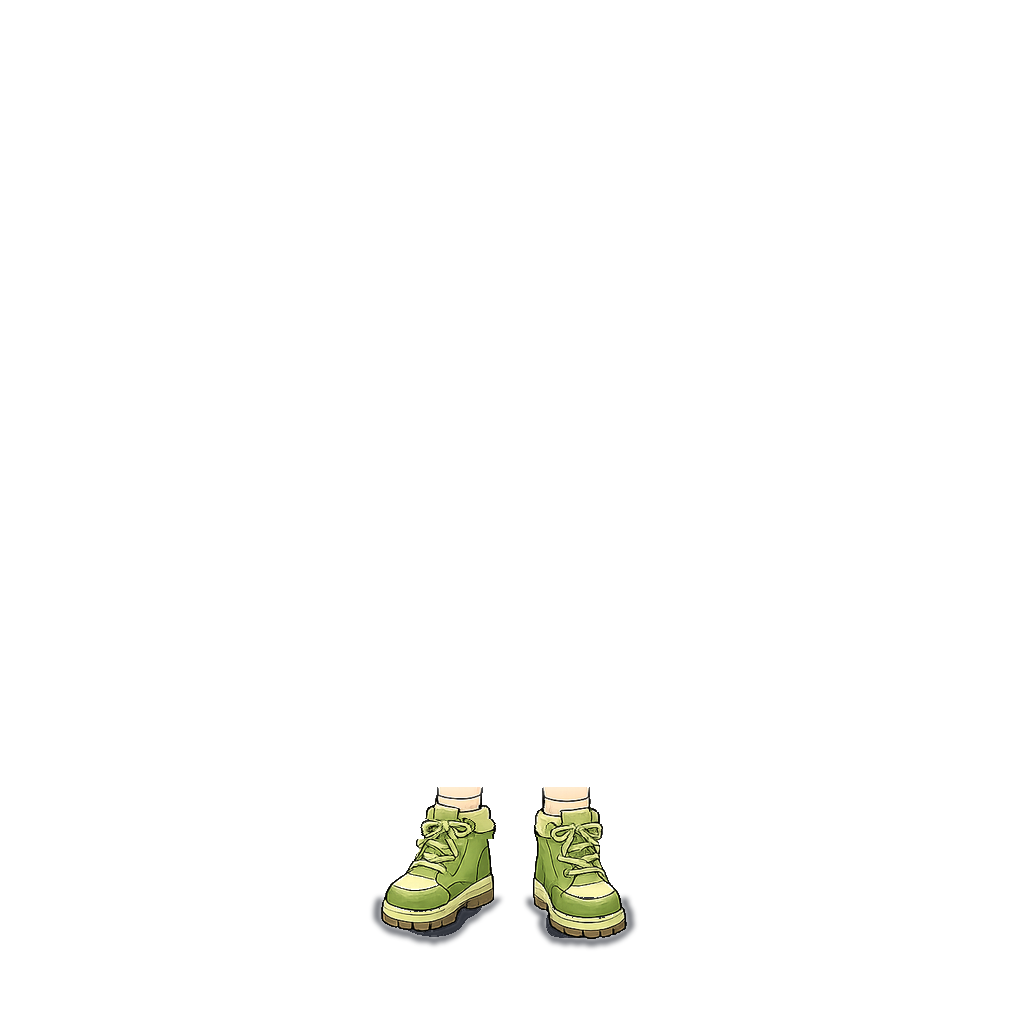
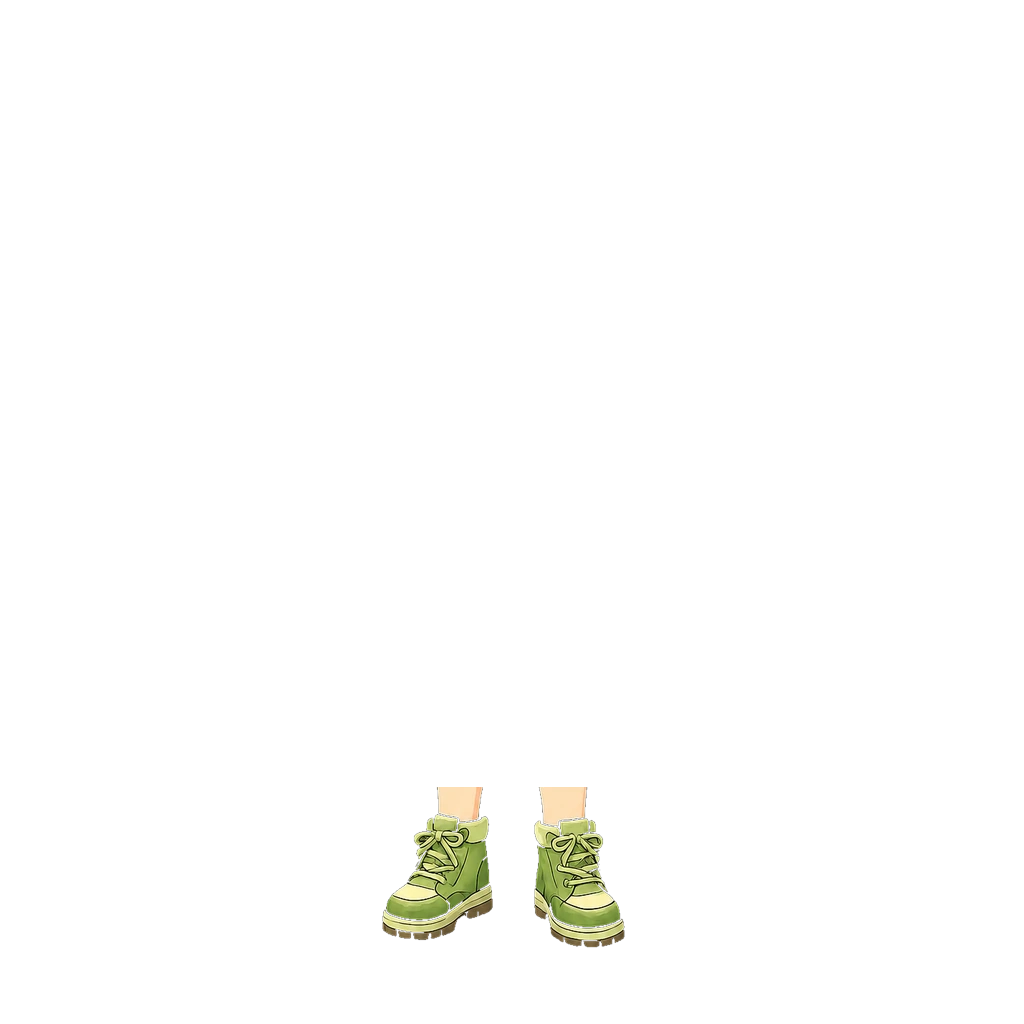
새싹 부츠 아트 교체 (green-boots v2)
- 새 원화에서 부츠 추출·배경 투명 처리 후 기존 오버레이 위치에 자동 정렬
- 원본은 art-src/boots-green-wearing-v2.png 로 보관 (재가공용)
- art-src/README 갱신

Claude-Session: https://claude.ai/code/session_01AhfbhPQ43qmCByJKwXmBzu

Changed region(s): [[0.3438, 0.75, 0.625, 0.9375]]

diff --git a/art-src/README.md b/art-src/README.md
@@ -11,10 +11,11 @@ ChatGPT로 생성한 **가공 전 원본 이미지**를 보관한다. 배포(dis
 | base-girl.png | 여아 아바타 베이스 원화 (v2, 승인본) | avatar/base/default-girl.webp |
 | boots-explorer-wearing.png | 탐험 부츠 착용 원화 (양말 버전, 구) | (교체됨) |
 | boots-explorer-sockless.png | 탐험 부츠 착용 원화 (맨발목, 현행) | avatar/shoes/explorer-boots.webp |
-| boots-green-wearing.png | 새싹 부츠 착용 원화 | avatar/shoes/green-boots.webp |
+| boots-green-wearing.png | 새싹 부츠 착용 원화 (구) | (교체됨) |
 | boots-cream-wearing.png | 크림 부츠 착용 원화 (양말 버전, 구) | (교체됨) |
 | boots-cream-sockless.png | 크림 부츠 착용 원화 (맨발목, 현행) | avatar/shoes/cream-boots.webp |
 | boots-desert-wearing-retired.png | 모래 부츠 원화 (판매 중단, 보관용) | (은퇴) |
 | hat-explorer-wearing.png | 탐험 헬멧 착용 원화 | avatar/hat/explorer-helmet.webp |
 | boots-explorer-sockless-v2.png | 탐험 부츠 착용 원화 (맨발목 v2, 최종 승인본) | avatar/shoes/explorer-boots.webp |
 | boots-pink-ribbon-wearing.png | 리본 부츠 원화 (판매 중단, 보관용) | (은퇴) |
+| boots-green-wearing-v2.png | 새싹 부츠 착용 원화 (v2, 현행 승인본) | avatar/shoes/green-boots.webp |
